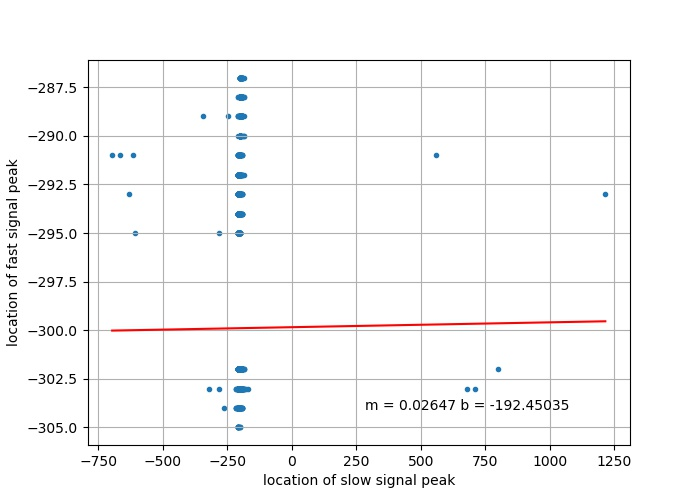
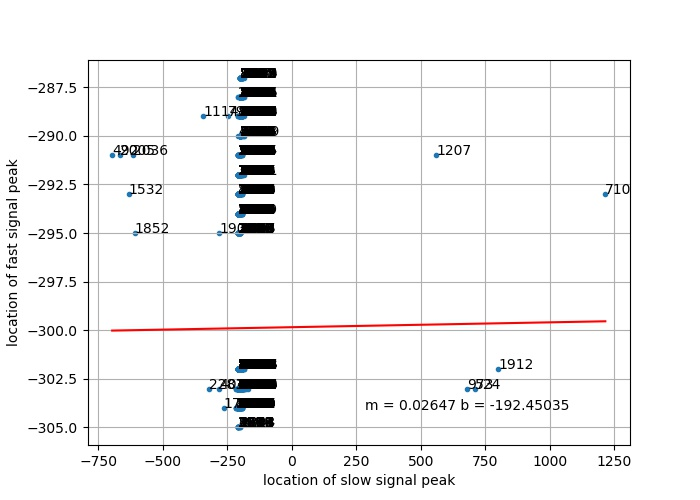
added annotations to peak locs to identify outliers

diff --git a/software/correlator.py b/software/correlator.py
@@ -184,6 +184,12 @@ plt.scatter(slowloc, fastloc, marker='.')
 ax = plt.gca()
 ax.set_xlabel('location of fast signal peak')
 ax.set_ylabel('location of slow signal peak')
+
+j = 0
+for i in monosgnl:
+	ax.annotate(Original[i][0], (slowloc[j], fastloc[j]))
+	j += 1
+
 plt.grid()
 # #plt.show()
 plt.savefig('peakloc_correlation.jpg')
@@ -195,6 +201,12 @@ plt.plot(np.unique(slowloc), np.poly1d(np.polyfit(slowloc, fastloc, 1))(np.uniqu
 ax = plt.gca()
 ax.set_xlabel('location of slow signal peak')
 ax.set_ylabel('location of fast signal peak')
+
+j = 0
+for i in monosgnl:
+	ax.annotate(Original[i][0], (slowloc[j], fastloc[j]))
+	j += 1
+
 plt.grid()
 plt.text(0.7, 0.1,'m = ' + '%.5f' % np.polyfit(fastloc, slowloc, 1)[0] + ' b = ' + '%.5f' % np.polyfit(fastloc, slowloc, 1)[1],
      horizontalalignment='center',
